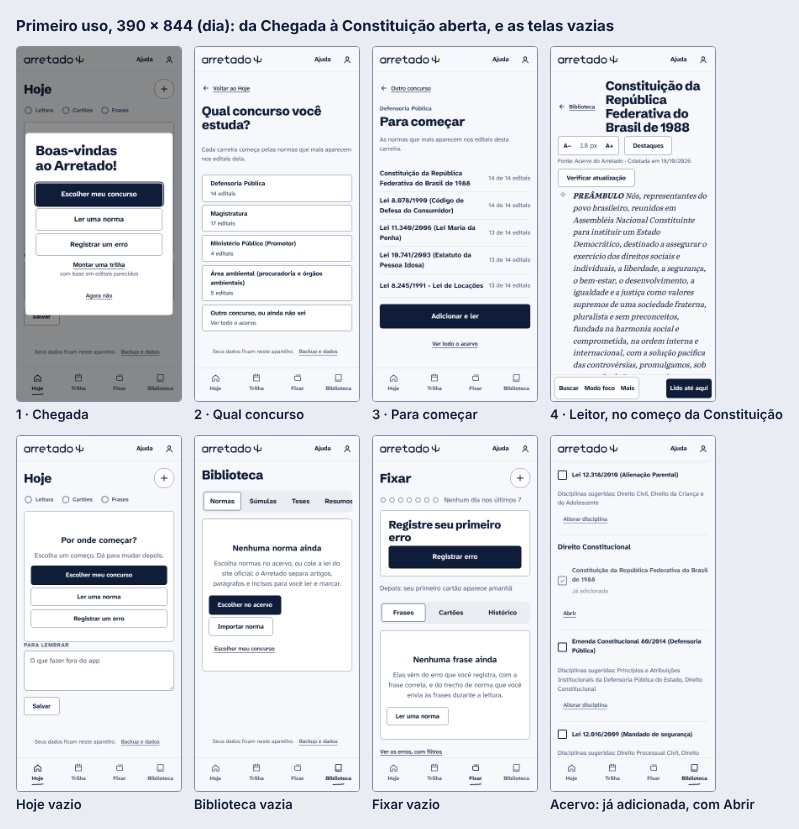
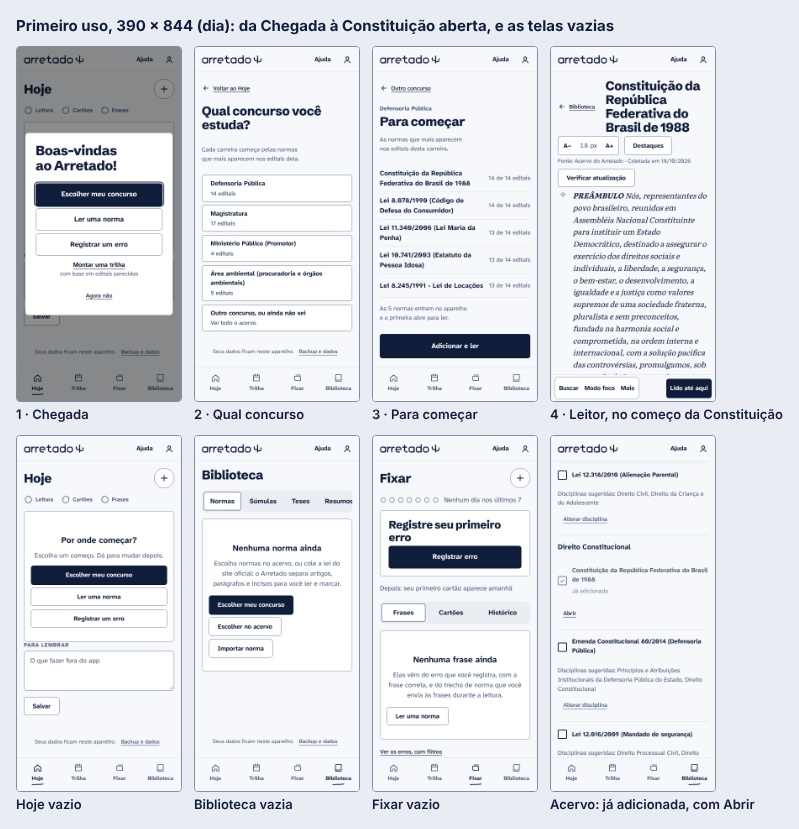
feat(onda1): pedidos da Marca: Ações sem o Erro repetido, Escolher meu concurso como principal na Biblioteca vazia, linha acima de Adicionar e ler, e o Mais com filtro nas folhas
Claude-Session: https://claude.ai/code/session_01BogFZ3c18n4XG4yNEVVxrJ

diff --git a/src/apresentacao/biblioteca/Biblioteca.test.tsx b/src/apresentacao/biblioteca/Biblioteca.test.tsx
@@ -94,17 +94,17 @@ describe('Biblioteca › Normas (9.5)', () => {
     );
   });
 
-  it('vazio sem plano: só acervo e importar, sem botão de edital', async () => {
+  it('vazio sem plano: "Escolher meu concurso" é o principal, com o acervo e a importação ao lado, sem botão de edital', async () => {
     const { repo } = await repositorioDeTeste();
     await abrirComAcervo(repo);
 
     await screen.findByRole('heading', { name: 'Nenhuma norma ainda' });
-    expect(screen.getByRole('link', { name: 'Escolher no acervo' })).toHaveClass('principal');
-    expect(screen.getByRole('link', { name: 'Importar norma' })).toBeInTheDocument();
-    expect(screen.getByRole('link', { name: 'Escolher meu concurso' })).toHaveAttribute(
-      'href',
-      '#/comecar',
-    );
+    // A mesma porta da Chegada e do Hoje vazio.
+    const concurso = screen.getByRole('link', { name: 'Escolher meu concurso' });
+    expect(concurso).toHaveAttribute('href', '#/comecar');
+    expect(concurso).toHaveClass('principal');
+    expect(screen.getByRole('link', { name: 'Escolher no acervo' })).not.toHaveClass('principal');
+    expect(screen.getByRole('link', { name: 'Importar norma' })).not.toHaveClass('principal');
     expect(screen.queryByRole('link', { name: /Tudo do edital/ })).not.toBeInTheDocument();
     // Quem chega aqui pela primeira vez não precisa saber de que órgão são as leis.
     expect(screen.queryByText(/ALESP/)).not.toBeInTheDocument();

diff --git a/src/apresentacao/comecar/ParaComecar.tsx b/src/apresentacao/comecar/ParaComecar.tsx
@@ -175,14 +175,23 @@ export function ParaComecar() {
             </div>
           )}
           {presentes.length > 0 ? (
-            <button
-              type="button"
-              className="principal grande"
-              disabled={andamento !== null}
-              onClick={() => void adicionarELer()}
-            >
-              {falhou ? 'Tentar de novo' : 'Adicionar e ler'}
-            </button>
+            <>
+              {!andamento && !falhou && (
+                <p className="dica">
+                  {presentes.length === 1
+                    ? 'A norma entra no aparelho e abre para ler.'
+                    : `As ${String(presentes.length)} normas entram no aparelho e a primeira abre para ler.`}
+                </p>
+              )}
+              <button
+                type="button"
+                className="principal grande"
+                disabled={andamento !== null}
+                onClick={() => void adicionarELer()}
+              >
+                {falhou ? 'Tentar de novo' : 'Adicionar e ler'}
+              </button>
+            </>
           ) : (
             <p>Nenhuma dessas normas está no acervo ainda.</p>
           )}

diff --git a/src/apresentacao/comecar/Comecar.test.tsx b/src/apresentacao/comecar/Comecar.test.tsx
@@ -115,6 +115,10 @@ describe('Escolher meu concurso › Para começar', () => {
       'Lei B2 de 4 editais',
     ]);
     expect(screen.getByRole('button', { name: 'Adicionar e ler' })).toBeEnabled();
+    // Uma linha acima do botão diz o que ele faz.
+    expect(
+      screen.getByText('As 2 normas entram no aparelho e a primeira abre para ler.'),
+    ).toBeVisible();
     expect(screen.getByRole('link', { name: 'Ver todo o acervo' })).toHaveAttribute(
       'href',
       '#/biblioteca/acervo',
@@ -134,6 +138,11 @@ describe('Escolher meu concurso › Para começar', () => {
     await abrir('#/comecar/carreira-b', await fonte());
     await screen.findByRole('button', { name: 'Adicionar e ler' });
     expect(screen.queryByText(/Faltam no acervo/)).toBeNull();
+  });
+
+  it('com uma norma só, a linha acima do botão fala no singular', async () => {
+    await abrir('#/comecar/carreira-b', await fonte());
+    expect(await screen.findByText('A norma entra no aparelho e abre para ler.')).toBeVisible();
   });
 
   it('"Adicionar e ler" adiciona todas, sem repetir, e abre a primeira no Leitor', async () => {

diff --git a/src/apresentacao/biblioteca/Normas.tsx b/src/apresentacao/biblioteca/Normas.tsx
@@ -400,13 +400,13 @@ export function Normas() {
               acao={
                 <>
                   {doEdital(edital, true)}
-                  {doAcervo('Escolher no acervo', !edital)}
-                  {importar(false)}
                   {!edital && (
-                    <Link to="/comecar" className="botao botao-texto">
+                    <Link to="/comecar" className="botao principal">
                       Escolher meu concurso
                     </Link>
                   )}
+                  {doAcervo('Escolher no acervo')}
+                  {importar(false)}
                 </>
               }
             >

diff --git a/src/apresentacao/biblioteca/MaisDoLeitor.tsx b/src/apresentacao/biblioteca/MaisDoLeitor.tsx
@@ -105,7 +105,7 @@ export function MaisDoLeitor({
             }}
           >
             <span>Ações</span>
-            <small>Erro, cartão e referência do dispositivo</small>
+            <small>Cartão e referência do dispositivo</small>
           </button>
         </div>
       )}

diff --git a/src/apresentacao/comecar/estilos-comecar.css b/src/apresentacao/comecar/estilos-comecar.css
@@ -63,3 +63,8 @@
 .comecar-acervo {
   justify-self: center;
 }
+
+/* As frases de apoio são curtas: sem a última palavra sozinha numa linha. */
+.comecar > .dica {
+  text-wrap: balance;
+}

diff --git a/docs/glossario.md b/docs/glossario.md
@@ -114,7 +114,7 @@ Tipos-base do mesmo arquivo: `DataCivil` (`AAAA-MM-DD` no fuso `America/Sao_Paul
 | Caneta de vidro (D-D9, 19/10/2026, Q4) | **Caneta:** `Caneta` (`pose`: `encostada` a 35° ou `deitada` a 65°), `CanetaDefs` e `CanetaDesenho` (o desenho dentro de outro `<svg>`, com os quatro ids de `useId`: `tinta`, `halo`, `sombra`, `aro`), em `componentes/Caneta.tsx` e `luz.css`; geometria do `pen.mjs` v5 do kit da marca (caixa de 120 × 270, ponta em (60, 262)). **Aro:** o contorno de vidro (`ARO` = 5 unidades), por máscara de luminância (`.caneta-aro`). **Furo de tinta:** o miolo de tinta à vista, em gradiente de `--pen-tinta` a `--pen-tinta2`. **Tokens da caneta** (13, nos três blocos de tema, no lugar de `--caneta-*`): `--pen-rim`, `--pen-vidro`, `--pen-vidro2`, `--pen-vidro-a`, `--pen-tinta`, `--pen-tinta2`, `--pen-brilho`, `--pen-halo`, `--pen-halo-op`, `--pen-esfera`, `--pen-luz`, `--pen-sombra`, `--pen-sombra-op`. **Tokens do quadro** (3): `--quadro-chao` (o chão), `--quadro-aro` (a parede dos tubos do cacto), `--quadro-marca` (a marca de hoje: lima de dia, nenhuma à noite). **Núcleo e ponta:** o cacto do quadro é um tubo oco; `nucleo` (papel de cor de `Fio`, em `--luz`) é o furo de tinta que corre pelo meio e `Fio.ponta` é onde ele termina, num ponto de luz (`.quadro-ponto`); o ponto de hoje (`.quadro-hoje`) é maior, na tinta da caneta, e leva a **marca de hoje** (`.quadro-marca`) atrás. **Espinhos:** a parte `espinhos` do quadro (antes "as nervuras e os espinhos", agora "os espinhos"). **Ícone do app:** `scripts/icones-app.mjs` desenha a silhueta cheia da caneta (`silhueta()`, em tinta, para o favicon de 16 a 48 px) e a caneta inteira (`canetaDeVidro()`, para 180 a 512 px). Saíram: `--caneta-0` a `--caneta-4`, `--caneta-miolo`, `--caneta-borda`, `--caneta-borda-opacidade`, `--caneta-brilho`, `--caneta-halo-dia`, `--caneta-halo-noite` e `--caramelo` (`TOKENS_REMOVIDOS` em `scripts/contraste.test.ts`) | `DESIGN.md`, `docs/design/sistema-visual.md`, `docs/design/decisoes-design.md` (D-D9), `docs/planos/tinta-e-noite.md` |
 | Escrita do nome (D-D9, Q6, 20/10/2026; no lugar do lockup parado da Q2 nas aberturas em que a frequência pede) | **Escrita do nome:** `EscritaDoNome` (`componentes/escrita/EscritaDoNome.tsx`, `curta`, `calmo`, `pulou`): o SVG decorativo (`aria-hidden`) do lockup com a caneta de vidro escrevendo o "arretado" letra a letra (14 traços, na ordem da mão), voltando por baixo do nome com o **traço de luz** (três janelas de comprimentos diferentes, a cauda) e virando o cacto (final B da Versão 2 da marca); mesma caixa do `LockupParado` (`CAIXA_DO_LOCKUP` = `-14 18 1015 154`), então o quadro final é o lockup. Os tempos e a animação são do CSS gerado pelo kit, `escrita-b.css` (cabeçalho de origem na primeira linha; não se edita à mão, está no `.prettierignore`; classes `.eb` e `.a`, variáveis `--k`, `--n`, `--d` e `--p` do kit); `escrita.css` é o que é do app (`--luz` = `--marca-ponto`, `--disco` = `--marca-disco`, a caneta pelos `--pen-*` da Q4, `.eb.curta`). Cada elemento leva o `animation-name` pelo `style` do JSX (a CSP `style-src 'self'` barra o atributo `style` em HTML, não o do CSSOM). **Geometria:** `NOME`, `CACTO`, `PONTO`, `CAMINHO_DA_LUZ` e `CAIXA_DO_LOCKUP` em `escrita/geometria.ts`, lidos também pelo `LockupParado`. **Marca:** `Marca` (`escrita/Marca.tsx`): o que o link `.marca` do cabeçalho mostra; decide uma vez, ao montar, qual `Escrita` fazer e não volta atrás (navegar não repete). **Frequência:** `Escrita` = `completa` (2,64 s, nome inteiro) \| `curta` (1,2 s: o nome já escrito, a caneta junto do "o", `--d: -1.45s`) \| `parada` (o `LockupParado`); a constante única é `FREQUENCIA` em `escrita/frequencia.ts` (`primeiraVez`, `primeiraDoDia`, `demais`); `escritaDaAbertura(agora)` lê, `lembrarDaEscrita(agora)` grava o Dia (a data civil de Brasília, T14) na chave `arretado:escrita-do-nome:v1` do localStorage (`{ dia }`: só o Dia, sem esquema, sem rede, sem dado de estudo). **Movimento:** reduzido do sistema = parada e a "primeira vez" não é gasta; perfil Calmo = só esmaece (`eb-calmo`, 0,24 s); um toque ou uma tecla em qualquer lugar pula para o quadro final (classe `pulou`). `movimentoDoPerfil(perfil)` (`apresentacao/movimento.ts`) é o que `movimentoAgora()` decide para um perfil dado (a `Marca` o lê das Preferências, porque `data-perfil` só chega depois). Nos testes, `simularMovimento` escolhe o modo e `repositorioDeTeste` dá o relógio (`repo.ctx.agora()`) | `docs/planos/tinta-e-noite.md` (Estado da Q6), `docs/design/referencias/2026-10-19-tinta-e-noite/contrato.md`, `src/apresentacao/componentes/escrita/` |
 | Chegada e Entrada do Dia (D-D9, 20/10/2026; folhas sobre o Hoje, das pranchas "Chegada 2" e "Entrada") | **Chegada:** `Chegada` (`entrada/Chegada.tsx`): a folha de orientação da primeira vez no aparelho, um `Dialogo` nativo "Boas-vindas ao Arretado!" com "Escolher meu concurso" (`/comecar`, o principal, com o foco; desde a Onda 1, 25/10/2026: ver a linha "Escolher meu concurso"), "Ler uma norma" (`/biblioteca`), "Registrar um erro" (`/recall/registrar`), "Montar uma trilha" (`/plano/onboarding`, "com base em editais parecidos") e "Agora não". Só abre num aparelho que **nasceu no Dia de hoje** (o registro de `aparelhos` do `repo.ctx.aparelhoId` com `criadoEm` na data civil de hoje) e ainda sem a chave da Chegada: quem já usava o aparelho antes desta versão não a vê nunca, só a Entrada. O nome escrito não se repete nela (é o do cabeçalho, `Marca`). **Entrada do Dia:** `Entrada` (`entrada/Entrada.tsx`), `Dialogo` nativo na primeira abertura a frio de cada Dia: a saudação pela hora de Brasília (`saudacaoDaHora`: de 5 h a 11 h59 "Bom dia", de 12 h a 17 h59 "Boa tarde", o resto "Boa noite"), a **Citação** (na tela nunca "Frase": Frase é do Recall), a "Dica de hoje", o botão principal do Agora (`rotaDeInicio(acao)`: "Começar: …" ou "Continuar a leitura"; sem Agora, "Continuar", que só fecha) e "Agora não". O foco vai ao principal e a Citação com a dica são a descrição do diálogo (`descritoPor` do `Dialogo`). **Regras:** `decidir` (`entrada/regras.ts`): nunca duas vezes no mesmo Dia, nunca com o Dia fechado, nunca com Sessão aberta, com o Retorno à vista ou com o "só estudo" ligado (valem para as duas folhas), e a Entrada só se o conteúdo carregar; só lê, e quem grava é a folha ao aparecer (`lembrarDaEntrada`, `lembrarDaChegada`, que fecha também a Entrada do mesmo Dia), então fechar o aplicativo no meio não a traz de volta. A abertura a frio é a primeira vez que o Hoje monta com este `Repositorio` (`decidirNaAberturaAFrio`, um `WeakSet`): voltar ao Hoje, ou o Dia virar com o app aberto, não decide de novo. **Chaves do localStorage** (só do aparelho: sem esquema, sem rede, sem dado de estudo): `arretado:chegada:v1` (`{ vista: true }`) e `arretado:entrada-do-dia:v1` (`{ dia }`). **Conteúdo de partida:** `entrada/conteudo-de-partida.ts` (12 Citações, só de quem morreu até 1954, e 12 dicas), baixado só quando a Entrada vai abrir (`import()`: se falha, nada abre e o Hoje segue); `conteudoDoDia(dia)` escolhe o par pela data (`posicaoDoDia`: dias desde 01/01/2026, módulo o tamanho da lista, então o mesmo Dia mostra sempre o mesmo par e Dias seguidos andam um item); a tradução nossa leva "(tradução do Arretado)" na obra. O conteúdo definitivo troca o arquivo, não o formato (`Citacao`, `Dica`). A preferência "Entrada do Dia" na Conta não existe (adiada). **Nos testes e nas capturas:** a folha é um `<dialog>` modal e deixa o resto inerte, então `src/testes/setup.ts`, a fixture de `e2e/apoio.ts` (`semearAbertura`) e `scripts/capturas-ui.mjs` semeiam as duas chaves como já vistas; quem testa a abertura apaga as chaves (`localStorage.removeItem`) ou desliga a fixture (`entrada-do-dia.spec.ts`) | `src/apresentacao/entrada/`, `e2e/entrada-do-dia.spec.ts`, `docs/solucao-de-problemas.md` ("Chegada e Entrada do Dia") |
-| Escolher meu concurso (Onda 1, 25/10/2026) | **Telas:** `/comecar` (`Comecar`, "Qual concurso você estuda?": as carreiras do pacote, cada uma com o número de editais, e "Outro concurso, ou ainda não sei", que leva ao Acervo) e `/comecar/:carreira` (`ParaComecar`, "Para começar": as normas da carreira que o acervo tem, na ordem do pacote e com "N de M editais", e o botão "Adicionar e ler", que abre a primeira no Leitor). As duas são `lazy` em `App.tsx`; `useCarga` (`comecar/useCarga.ts`) carrega uma vez e refaz no "Tentar de novo". Da folha da Chegada ao Art. 1º são três toques e nenhuma tecla (`e2e/comecar.spec.ts` conta os eventos de verdade). **Pacote de partida:** `public/acervo/pacote-de-partida.json` (esquemas `PacoteDePartida`, `CarreiraDoPacote`, `NormaDoPacote` em `acervo/esquemas.ts`; `FonteDoAcervo.pacoteDePartida()`; aprovado pelo Gabriel em 25/10/2026): até 8 ids do acervo por carreira, com título, editais que citam e porcentagem. É um arquivo do acervo, fora do JS principal; `acervo:verificar` confere o esquema e que todo id está no índice (`problemasDoPacote`), e `verificarPasta` não o toma por item. **Domínio** (`acervo/partida.ts`): `normasDaPartida(carreira, indice)` separa as normas que o acervo tem (na ordem do pacote) das que faltam; `adicionarPartida(repo, fonte, ids, opções)` usa `aderirEmLote` (idempotente; uma falha não derruba as outras) e devolve `normaId`, a primeira da ordem que entrou, que o botão abre. **Ordem do Acervo:** `ufDaEntrada(entrada)` (`acervo/agrupar.ts`) lê a UF do endereço oficial e `agrupar` põe o que é de um estado depois do que vale no país, e os grupos só de um estado no fim. **Abrir:** depois de "Adicionar", o aviso do Acervo diz "N adicionada(s)" e, se só uma entrou, traz "Abrir"; cada linha já adicionada tem o seu (`normaDe`: do id do acervo à norma local). **Começos do Hoje vazio** (`COMECOS` em `dominios/hoje/proxima-acao.ts`): `escolher_concurso` (o principal), `ler_norma`, `registrar_erro`. **Fixar vazio:** a aba Frases diz de onde vêm as frases (o Erro e o trecho enviado na leitura) e leva à Biblioteca | `src/apresentacao/comecar/`, `src/dominios/acervo/partida.ts`, `e2e/comecar.spec.ts`, `docs/solucao-de-problemas.md` ("Leitor no celular e primeiro uso") |
+| Escolher meu concurso (Onda 1, 25/10/2026) | **Telas:** `/comecar` (`Comecar`, "Qual concurso você estuda?": as carreiras do pacote, cada uma com o número de editais, e "Outro concurso, ou ainda não sei", que leva ao Acervo) e `/comecar/:carreira` (`ParaComecar`, "Para começar": as normas da carreira que o acervo tem, na ordem do pacote e com "N de M editais", e o botão "Adicionar e ler", que abre a primeira no Leitor). As duas são `lazy` em `App.tsx`; `useCarga` (`comecar/useCarga.ts`) carrega uma vez e refaz no "Tentar de novo". Da folha da Chegada ao Art. 1º são três toques e nenhuma tecla (`e2e/comecar.spec.ts` conta os eventos de verdade). **Pacote de partida:** `public/acervo/pacote-de-partida.json` (esquemas `PacoteDePartida`, `CarreiraDoPacote`, `NormaDoPacote` em `acervo/esquemas.ts`; `FonteDoAcervo.pacoteDePartida()`; aprovado pelo Gabriel em 25/10/2026): até 8 ids do acervo por carreira, com título, editais que citam e porcentagem. É um arquivo do acervo, fora do JS principal; `acervo:verificar` confere o esquema e que todo id está no índice (`problemasDoPacote`), e `verificarPasta` não o toma por item. **Domínio** (`acervo/partida.ts`): `normasDaPartida(carreira, indice)` separa as normas que o acervo tem (na ordem do pacote) das que faltam; `adicionarPartida(repo, fonte, ids, opções)` usa `aderirEmLote` (idempotente; uma falha não derruba as outras) e devolve `normaId`, a primeira da ordem que entrou, que o botão abre. **Ordem do Acervo:** `ufDaEntrada(entrada)` (`acervo/agrupar.ts`) lê a UF do endereço oficial e `agrupar` põe o que é de um estado depois do que vale no país, e os grupos só de um estado no fim. **Abrir:** depois de "Adicionar", o aviso do Acervo diz "N adicionada(s)" e, se só uma entrou, traz "Abrir"; cada linha já adicionada tem o seu (`normaDe`: do id do acervo à norma local). **Começos do Hoje vazio** (`COMECOS` em `dominios/hoje/proxima-acao.ts`): `escolher_concurso` (o principal), `ler_norma`, `registrar_erro`. **Para começar:** uma linha acima do botão diz o que ele faz ("As 5 normas entram no aparelho e a primeira abre para ler."; no singular, "A norma entra no aparelho e abre para ler."). **Biblioteca vazia:** sem plano com edital, o principal é "Escolher meu concurso" (a mesma porta da Chegada e do Hoje vazio), com "Escolher no acervo" e "Importar norma" ao lado; com edital que o acervo conhece, o principal é "Tudo do edital de …". **Fixar vazio:** a aba Frases diz de onde vêm as frases (o Erro e o trecho enviado na leitura) e leva à Biblioteca | `src/apresentacao/comecar/`, `src/dominios/acervo/partida.ts`, `e2e/comecar.spec.ts`, `docs/solucao-de-problemas.md` ("Leitor no celular e primeiro uso") |
 | Leitor no celular (Onda 1, 25/10/2026) | **Barra de uma linha:** abaixo de 700 px, dentro da norma, o `Leitor` põe `data-leitor` na raiz e as abas das áreas somem; o grupo fixo `.acoes-leitor` vira uma barra no fundo, no lugar delas: Buscar, Modo foco e Mais à esquerda, "Lido até aqui" à direita. `--barra-do-leitor` é a altura que ela ocupa (um `ResizeObserver` a escreve quando quebra em duas linhas) e vale também como `--abas-altura`, então a rolagem reserva o espaço. A janela de leitura passa de 69% para cerca de 85% a 390 × 844. **Mais:** `MaisDoLeitor` (`biblioteca/MaisDoLeitor.tsx`), bandeja que abre para cima com **Filtrar**, **Registrar erro** (abre as ações do dispositivo já no formulário do erro, por `AlvoDasAcoes.comecarRegistrando`) e **Ações**; do tablet para cima os três seguem como botões do dock. **Largura:** `useLarguraMaxima(px)` (`componentes/largura.ts`) é o `matchMedia` de `max-width`; o corte do JS e o do CSS são o mesmo (699 px). **Saída:** com as abas escondidas, sai-se pelo "voltar" do aparelho, pela marca (início) ou pelo "Voltar à Biblioteca" do alto da norma. **Testes:** `Leitor.test.tsx`, `largura.test.tsx` e `e2e/leitor-celular.spec.ts` (medidas a 390 × 844, 375 × 667 e 360 × 740) | `src/apresentacao/biblioteca/Leitor.tsx`, `src/apresentacao/estilos.css` (bloco "O Leitor no celular"), `docs/solucao-de-problemas.md` ("Leitor no celular e primeiro uso") |
 | Hoje da Tinta e noite (D-D9, Q5, 20/10/2026; no lugar da linha de parada e do "Em seguida" da P3 da D-D7) | **"Retomar em":** o texto da linha de parada (`Parada`), no lugar de "Você parou em" (as outras ocorrências mudaram em 20/10/2026, por decisão do Gabriel, conforme o lugar: "Continuar a leitura no Art. 41 da LEP" no Agora da Biblioteca (`Normas.tsx`) e na `razao` de `dominios/hoje/proxima-acao.ts` (sem posição, "Continuar a leitura da LEP"), "Onde continuar a leitura" em `PendenciasDaNorma.tsx` e, no Leitor, "onde continuar a leitura" no anúncio do "Ir ao lido até" e "a posição da leitura" no aviso de falha; fica "Amanhã você começa de onde parou", em `FecharDia.tsx`); o lugar em `.parada-onde` e a hora em `.parada-quando` ("salvo hoje, 22h10", "salvo ontem, …", "salvo dia 12/10, …"; `quandoDeParar`, sempre a hora e o dia de Brasília, T14). De dia, a faixa (`.parada-onde::before`) e o ponto com o halo (`::after`) sublinham o lugar; à noite somem. **Em seguida:** `Depois` agora é um `<details class="em-seguida-bloco">` (fechado, `.em-seguida-resumo`: o rótulo, a primeira atividade e a seta; aberto, `.em-seguida-lista`: uma linha por atividade, com o tempo). **Trocar:** o `<details class="em-seguida-troca">` de cada linha, com os chips "Trocar por" (`.em-seguida-opcoes`; `aria-pressed` marca a atividade da linha); só apresentação, só nesta visita, sem gravar: `trocarDeLugar` e `emSeguidaComTrocas` (`retrato.ts`), `HojeEmAndamento.trocar` e `RetratoDoHoje.outras` (todas as ações com algo a fazer hoje depois do Agora, da mesma `decidirProximaAcao`); `agoraEOutras` calcula o Agora com o `preferido` do "Escolher outra coisa" (o que a pessoa viu primeiro em "Em seguida"). "Deixar para amanhã" fica fora até haver regra de domínio. **Tokens do Hoje**, nos três blocos de tema de `estilos.css`: `--marca-da-parada` (a opacidade da faixa e do ponto: 1 de dia, 0 à noite), `--fonte-rotulo` e `--tamanho-rotulo` (o rótulo "Em seguida": a letra de título de 15 px de dia, a da interface em 14 px à noite). **Linha com caneta:** `.parada.com-caneta` (a caneta `encostada` de 68 × 91, `.parada-caneta`, com a ponta na borda de cima da folha do Agora e rente à borda da direita). |
 | Rótulos do menu (D-D5, 16/10/2026; em uso desde a P2 da D-D7) | Na tela: **Hoje · Trilha · Fixar · Biblioteca** e "Em seguida". Mapa único: `ROTULO_DA_AREA` em `src/apresentacao/textos.ts` (`hoje`, `plano` = Trilha, `recall` = Fixar, `biblioteca`), usado nas abas, nos títulos, na Conta e nas orientações. Em código e rotas seguem `plano`, `recall` e `Depois`/`LinhaDepois` (nada renomeado) |
